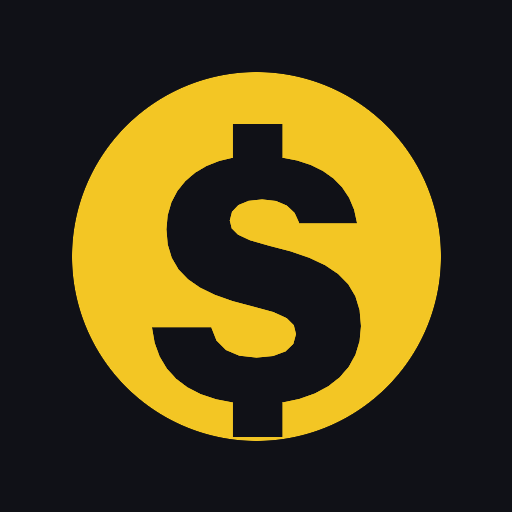
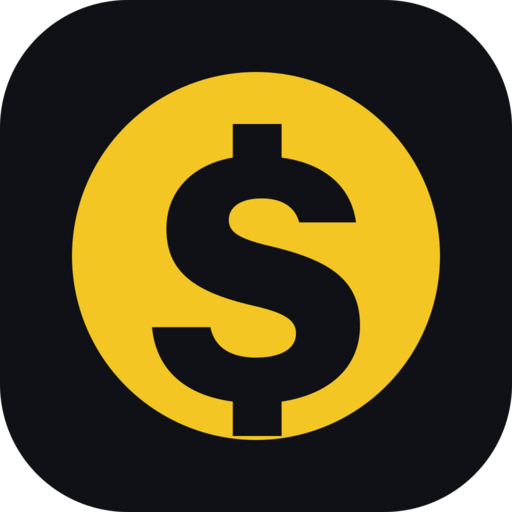
Completar iconos instalables en todos los dispositivos

diff --git a/index.html b/index.html
@@ -6,13 +6,24 @@
   <meta name="theme-color" content="#101117">
   <script>try{const t=localStorage.getItem("mi-dinero-theme");if(t==="light"){document.documentElement.dataset.theme="light";document.documentElement.style.colorScheme="light";document.querySelector('meta[name="theme-color"]').content="#f4f5f8"}}catch{}</script>
   <title>Mi Dinero</title>
-  <link rel="icon" href="favicon.svg" type="image/svg+xml">
-  <link rel="shortcut icon" href="favicon.svg">
-  <link rel="apple-touch-icon" sizes="180x180" href="icons/apple-touch-icon.png">
-  <link rel="manifest" href="manifest.webmanifest">
+  <meta name="application-name" content="Mi Dinero">
+  <meta name="mobile-web-app-capable" content="yes">
   <meta name="apple-mobile-web-app-capable" content="yes">
   <meta name="apple-mobile-web-app-status-bar-style" content="black-translucent">
   <meta name="apple-mobile-web-app-title" content="Mi Dinero">
+  <meta name="msapplication-TileColor" content="#101117">
+  <meta name="msapplication-config" content="browserconfig.xml?v=20260803-2">
+  <link rel="manifest" href="manifest.webmanifest?v=20260803-2">
+  <link rel="icon" href="favicon.svg?v=20260803-2" type="image/svg+xml">
+  <link rel="icon" href="icons/icon-48.png?v=20260803-2" type="image/png" sizes="48x48">
+  <link rel="icon" href="icons/icon-32.png?v=20260803-2" type="image/png" sizes="32x32">
+  <link rel="icon" href="icons/icon-16.png?v=20260803-2" type="image/png" sizes="16x16">
+  <link rel="shortcut icon" href="favicon.ico?v=20260803-2" type="image/x-icon">
+  <link rel="apple-touch-icon" href="icons/apple-touch-icon.png?v=20260803-2">
+  <link rel="apple-touch-icon" sizes="152x152" href="icons/icon-152.png?v=20260803-2">
+  <link rel="apple-touch-icon" sizes="167x167" href="icons/icon-167.png?v=20260803-2">
+  <link rel="apple-touch-icon" sizes="180x180" href="icons/icon-180.png?v=20260803-2">
+  <link rel="mask-icon" href="safari-pinned-tab.svg?v=20260803-2" color="#f3c624">
   <link rel="preconnect" href="https://fonts.googleapis.com">
   <link rel="preconnect" href="https://fonts.gstatic.com" crossorigin>
   <link href="https://fonts.googleapis.com/css2?family=DM+Sans:wght@400;500;600;700&display=swap" rel="stylesheet">
